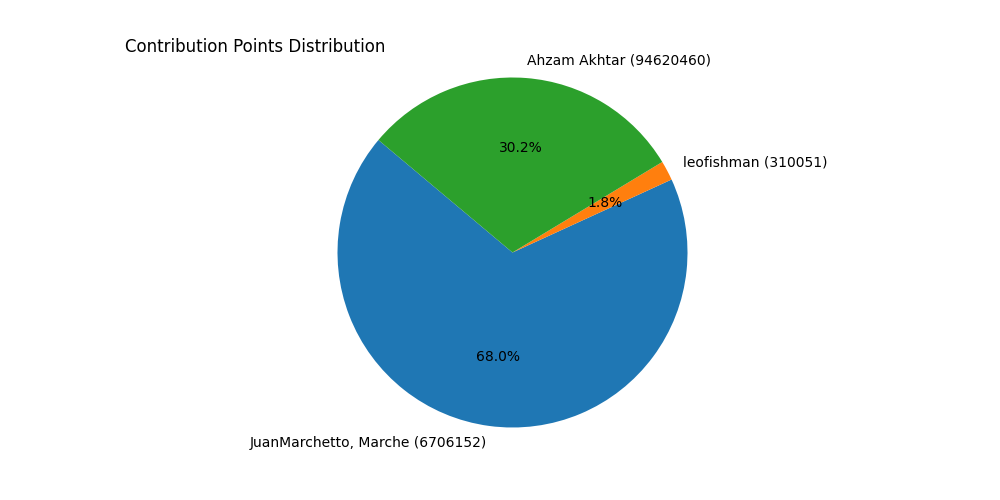
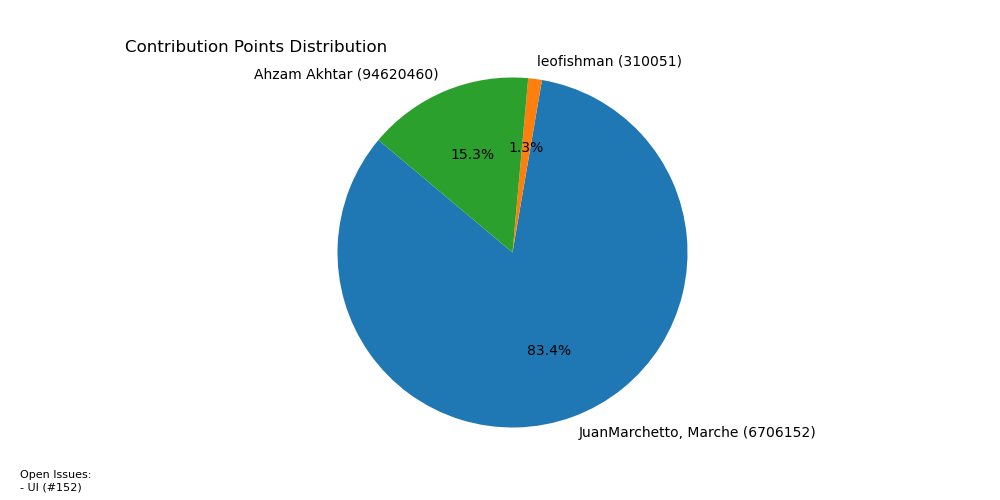
added the /contributors endpoint with new bar graph of contribution count

diff --git a/master.py b/master.py
@@ -71,7 +71,34 @@ def fetch_and_write_commits():
             if verified:
                 points += 25
 
-            writer.writerow([sha, author, author_id, committer, committer_id, date, message, lines_added, lines_deleted, verified, points])
+            if "github" in author.lower():
+                author_id = None
+            if "github" in committer.lower():
+                committer_id = None
+
+            if author_id:
+                writer.writerow([sha, author, author_id, committer, committer_id, date, message, lines_added, lines_deleted, verified, points])
+
+    return csv_file_name
+
+# Function to fetch contributors and write to CSV
+def fetch_and_write_contributors():
+    contributors_url = f'{base_url}/contributors'
+    response = requests.get(contributors_url, headers=headers)
+    contributors = response.json()
+
+    csv_file_name = f'{repo}_contributors.csv'
+    with open(csv_file_name, mode='w', newline='') as file:
+        writer = csv.writer(file)
+        writer.writerow(["Login", "ID", "Contributions"])
+
+        for contributor in contributors:
+            if contributor['type'] == 'Bot':
+                continue
+            login = contributor['login']
+            user_id = contributor['id']
+            contributions = contributor['contributions']
+            writer.writerow([login, user_id, contributions])
 
     return csv_file_name
 
@@ -87,38 +114,24 @@ def process_csv(file_path: str):
             author_name = row['Author']
             committer_id = row['Committer ID']
             committer_name = row['Committer']
-            lines_added = int(row['Lines Added'])
-            lines_deleted = int(row['Lines Deleted'])
-            commit_message = row['Message']
 
-            if any(keyword in commit_message.lower() for keyword in keywords):
-                author_points = 5
-                committer_points = 5
-            else:
-                author_points = 100 + (25 * lines_added) + (50 * lines_deleted)
-                committer_points = 100 + (25 * lines_added) + (50 * lines_deleted)
+            # Exclude GitHub or bot authors/committers
+            if "github" in author_name.lower() or "bot" in author_name.lower():
+                author_id = None
+            if "github" in committer_name.lower() or "bot" in committer_name.lower():
+                committer_id = None
 
-            if author_id not in user_id_to_names:
-                user_id_to_names[author_id] = set()
-            user_id_to_names[author_id].add(author_name)
+            if author_id:
+                points[author_id] = points.get(author_id, 0) + int(row['Points'])
+                if author_id not in user_id_to_names:
+                    user_id_to_names[author_id] = set()
+                user_id_to_names[author_id].add(author_name)
 
-            if committer_id not in user_id_to_names:
-                user_id_to_names[committer_id] = set()
-            user_id_to_names[committer_id].add(committer_name)
-
-            if "GitHub" in author_name:
-                continue
-
-            if author_id not in points:
-                points[author_id] = 0
-            points[author_id] += author_points
-
-            if "GitHub" in committer_name:
-                continue
-
-            if committer_id not in points:
-                points[committer_id] = 0
-            points[committer_id] += committer_points
+            if committer_id:
+                points[committer_id] = points.get(committer_id, 0) + int(row['Points'])
+                if committer_id not in user_id_to_names:
+                    user_id_to_names[committer_id] = set()
+                user_id_to_names[committer_id].add(committer_name)
 
     labels = [f"{', '.join(user_id_to_names[user_id])} ({user_id})" for user_id in points.keys()]
     scores = list(points.values())
@@ -128,17 +141,49 @@ def process_csv(file_path: str):
     plt.title('Contribution Points Distribution', loc='left')
     plt.axis('equal')
 
+    open_issues = fetch_open_issues()
+    issues_text = "\n".join([f"- {issue['title']} (#{issue['number']})" for issue in open_issues])
+    plt.gcf().text(0.02, 0.02, f"Open Issues:\n{issues_text}", fontsize=8, ha='left')
+
     output_file = os.path.splitext(file_path)[0] + '_distribution.png'
     plt.savefig(output_file)
     plt.close()
 
-    open_issues = fetch_open_issues()
-    print("Open Issues:")
-    for issue in open_issues:
-        print(f"- {issue['title']} (#{issue['number']})")
+# Function to process contributors CSV and generate a bar graph
+def process_contributors_csv(file_path: str):
+    contributors = []
+    contributions = []
+
+    with open(file_path, mode='r') as file:
+        reader = csv.DictReader(file)
+        for row in reader:
+            contributors.append(f"{row['Login']}")
+            contributions.append(int(row['Contributions']))
+
+    plt.figure(figsize=(10, 5))
+    bars = plt.bar(contributors, contributions)
+    plt.xlabel('Contributors')
+    plt.ylabel('Number of Contributions')
+    plt.title(f'{repo} Contributors')
+    plt.xticks(rotation=0)  # Set labels to be horizontal
+
+    # Add labels on top of the bars
+    for bar, contribution in zip(bars, contributions):
+        plt.text(bar.get_x() + bar.get_width() / 2, bar.get_height(), str(contribution), ha='center', va='bottom')
+
+
+    output_file = os.path.splitext(file_path)[0] + '_contributions.png'
+    plt.savefig(output_file)
+    plt.close()
 
 # Fetch commit data and write to CSV
 csv_file_name = fetch_and_write_commits()
 
 # Process the generated CSV file
 process_csv(csv_file_name)
+
+# Fetch contributors data and write to CSV
+contributors_csv_file_name = fetch_and_write_contributors()
+
+# Process the contributors CSV file
+process_contributors_csv(contributors_csv_file_name)
